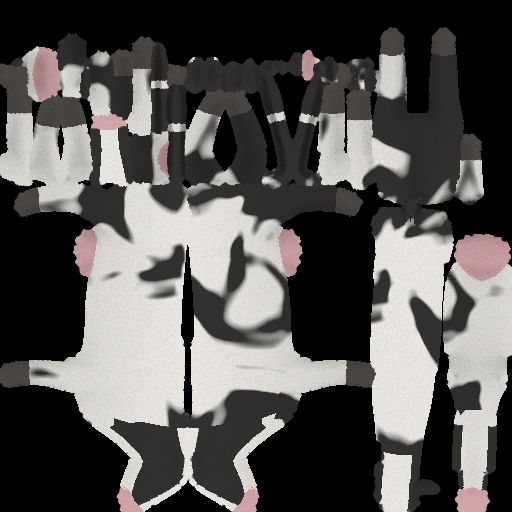
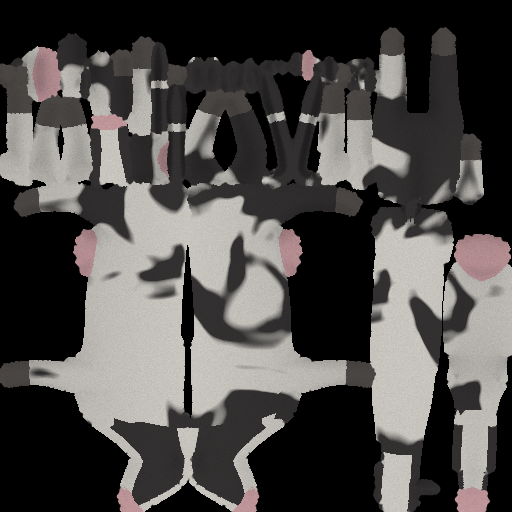
Cow: darker white coat and no gloss, so she no longer glows in the sun

diff --git a/tools/cow/bake_cow.py b/tools/cow/bake_cow.py
@@ -20,11 +20,12 @@ size = int(args[2]) if len(args) > 2 else 512
 
 COATS = {
     # name: (base coat, patches)
-    "schwarzbunt": ((0.86, 0.84, 0.80), (0.035, 0.032, 0.032)),
-    "rotbunt": ((0.86, 0.84, 0.80), (0.36, 0.13, 0.06)),
+    # Valheim's sun is bright: a white coat above ~0.65 blooms like a lamp.
+    "schwarzbunt": ((0.62, 0.60, 0.56), (0.035, 0.032, 0.032)),
+    "rotbunt": ((0.62, 0.60, 0.56), (0.33, 0.12, 0.055)),
     "braun": ((0.40, 0.27, 0.17), (0.30, 0.19, 0.11)),
 }
-PINK = (0.72, 0.42, 0.44)
+PINK = (0.58, 0.34, 0.36)
 HOOF = (0.09, 0.08, 0.075)
 
 arm = bpy.data.objects["Armature"]

diff --git a/src/CowModel.cs b/src/CowModel.cs
@@ -130,7 +130,7 @@ namespace VerlerLeben
 
             if (material.HasProperty("_Glossiness"))
             {
-                material.SetFloat("_Glossiness", 0.03f);   // matt coat
+                material.SetFloat("_Glossiness", 0f);   // matt coat
             }
 
             return material;
